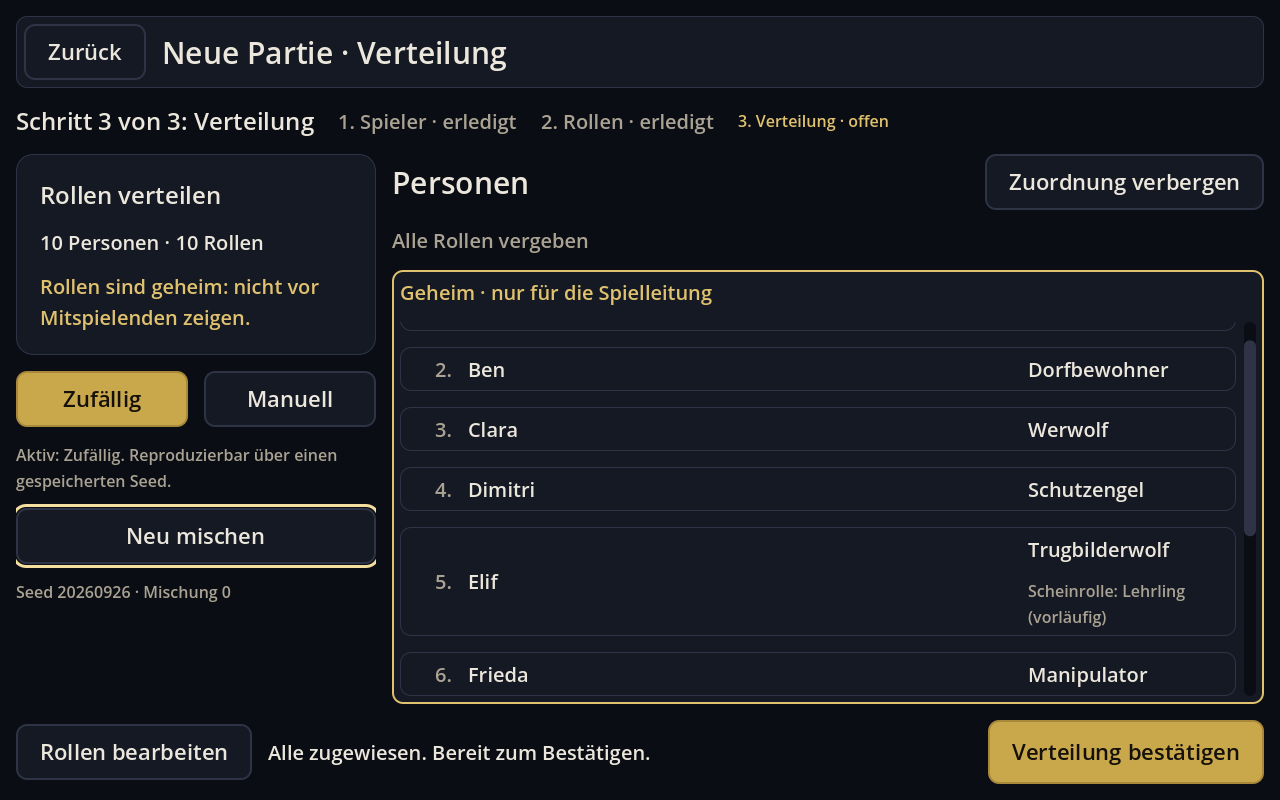
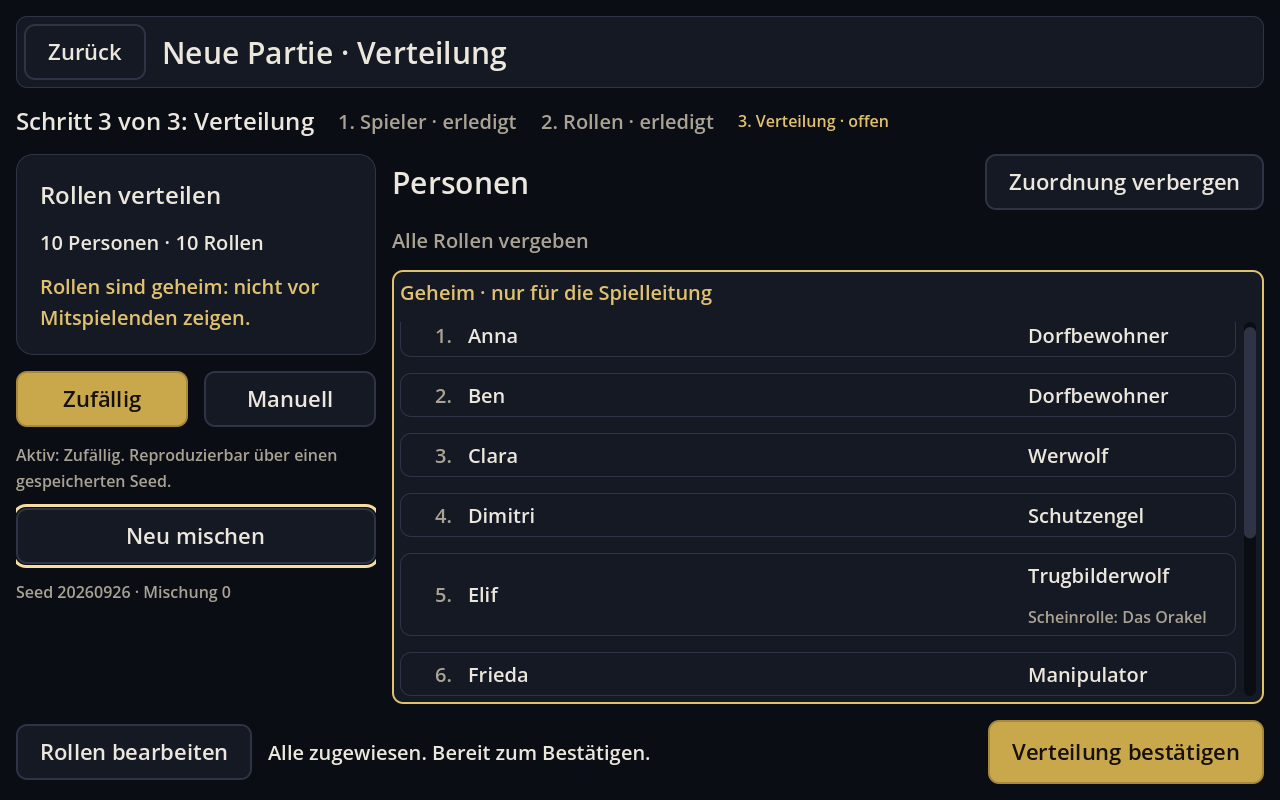
docs: Trugbilderwolf-Scheinrolle nach DR-08, Screenshots und Medien-Übergabeliste
role-setup.md beschreibt die ausdrückliche Scheinrollenwahl je Kopie
(RoleCopy, Verteilungseinheiten, Invalidierung, Oberfläche, StartGame-
Abbildung) und entfernt alle Aussagen über eine abgeleitete Scheinrolle.
Aktualisiert: docs/ui/README.md, godot/README.md, Screenshot-README.
Neu: docs/evidence/role-setup/asset-handoff.md mit Pfad, SHA-256, Größe,
Zweck und Status aller 27 gegenüber 250d3d2 neuen oder veränderten
Mediendateien; das gemeinsame Assetregister bleibt unverändert.

Claude-Session: https://claude.ai/code/session_01TPAa6aqdG9qfimgUYd4iTS

diff --git a/docs/ui/role-setup.md b/docs/ui/role-setup.md
@@ -1,6 +1,6 @@
 # Rollen-Setup · Rollen auswählen und verteilen
 
-Stand: 27.09.2026 · Godot 4.7.2 · Projekt `godot/`
+Stand: 27.09.2026 (Korrekturrunde DR-08) · Godot 4.7.2 · Projekt `godot/`
 
 „Neue Partie“ ist ein Wizard mit drei Schritten: **Spieler → Rollen → Verteilung**. Nach dem bestätigten Namensschritt (`player-setup.md`) stellt der Spielleiter einen Rollenpool für genau diese Personenzahl zusammen, verteilt ihn zufällig und reproduzierbar oder manuell und bestätigt die Verteilung. Das Ergebnis bleibt ein Entwurf im Speicher. Es entsteht weder `StartGame` noch ein `GameState`, und der Regelkern bleibt unverändert.
 
@@ -10,11 +10,11 @@ Stand: 27.09.2026 · Godot 4.7.2 · Projekt `godot/`
 |---|---|---|
 | Katalogadapter | `app/setup/setup_role_catalog.gd` (`SetupRoleCatalog`) | liest Rollen-IDs, Fraktion, `counts_as_wolf`, Nachtpriorität, `max_copies`, Pflicht-Scheinrolle und zulässige Scheinrollen nur aus `RoleCatalog`/`Faction` |
 | Darstellungsdaten | `app/setup/role_presentation.gd` (`RolePresentation`) | Übersetzungsschlüssel für Name, Kurzbeschreibung und Fraktion; Reihenfolge in der Oberfläche; keine Regelwirkung |
-| Modell | `role_pool_draft.gd`, `distribution_draft.gd`, `setup_draft.gd` | Rollenanzahlen, Pool, Verteilung, Seed, Wizard-Schritt, Bestätigungen, Invalidierungsgründe |
-| Logik | `role_setup.gd` (`RoleSetup`), `role_suggestion.gd`, `role_distribution.gd` | Operationen und zentrale Invalidierung, Vorschlag, deterministische Verteilung und Scheinrollen |
+| Modell | `role_pool_draft.gd`, `role_copy.gd`, `distribution_draft.gd`, `setup_draft.gd` | Rollenanzahlen, Trugbilderwolf-Kopien mit gewählter Scheinrolle, Pool, Verteilung, Seed, Wizard-Schritt, Bestätigungen, Invalidierungsgründe |
+| Logik | `role_setup.gd` (`RoleSetup`), `role_suggestion.gd`, `role_distribution.gd` | Operationen und zentrale Invalidierung, Vorschlag, deterministische Verteilung von Verteilungseinheiten |
 | Anwendungsschicht | `player_setup.gd` (`PlayerSetup`, `AppContext.setup`) | einzige Schnittstelle der UI; jede Operation atomar mit `SetupResult` |
 | Sicht | `setup_distribution_view.gd` | Sicht des Verteilungsschritts (reine Daten) |
-| UI | `app/screens/new_game/`: `new_game_screen`, `wizard_progress`, `player_step`, `role_step`, `role_row`, `distribution_step`, `assignment_row` | Darstellung, Eingabe, Rückfragen; keine Regellogik |
+| UI | `app/screens/new_game/`: `new_game_screen`, `wizard_progress`, `player_step`, `role_step`, `role_row`, `decoy_section`, `decoy_copy_row`, `distribution_step`, `assignment_row` | Darstellung, Eingabe, Rückfragen; keine Regellogik |
 
 `app/setup/` kennt weder `GameState`, `RulesEngine`, `Command`, `StartGame` noch `GameSession` und enthält keine globale Zufallsquelle und keine Uhr (statisch geprüft).
 
@@ -30,15 +30,22 @@ Stand: 27.09.2026 · Godot 4.7.2 · Projekt `godot/`
 - `counts: Dictionary[StringName, int]`, jede Katalogrolle, Start 0
 - `confirmed`
 - `invalidated`: `""`, `roles_changed` oder `person_count_changed`
-- `pool()`: kanonische Liste, `total()`, `summary()`, `issues(persons)`
+- `copies: Array[RoleCopy]`, `next_copy_id`: Kopien von Rollen mit Pflicht-Scheinrolle (Trugbilderwolf); ihre Zahl in `counts` entspricht immer der Zahl der Kopien
+- `pool()`: kanonische Liste der Rollen-IDs, `entries()`/`keys()`: Verteilungseinheiten, `total()`, `summary()`, `issues(persons)`
+
+**`RoleCopy`**
+- `copy_id` (stabil ab 1, nie wiederverwendet, nie als Produkttext gezeigt), `role_id`, `appears_as` (leer = noch nicht festgelegt)
+- Verteilungsschlüssel `key()`, z. B. `trugbilderwolf#2`; `role_of(key)` liefert die Rolle
+- Sichtbare Bezeichnung „Trugbilderwolf 1, 2, …“ = Position unter den Kopien der Rolle
+
+**Verteilungseinheiten** (`RolePoolDraft.entries()`): je Einheit `{key, role_id, appears_as}` in kanonischer Reihenfolge. Normale Rollen haben ihre Rollen-ID als Schlüssel, gleiche Kopien sind austauschbar und brauchen keine Unterscheidung. Jede Trugbilderwolf-Kopie ist eine eigene Einheit aus Rolle und gewählter Scheinrolle. Das entspricht direkt dem Core-Format `role_entries [{role_id, appears_as}]`.
 
 **`DistributionDraft`**
 - `mode`: `random` (Standard) oder `manual`
-- `assignment: Dictionary[int, StringName]`: Personen-ID → Rollen-ID
-- `appearances: Dictionary[int, StringName]`: Personen-ID → vorbereitete Scheinrolle, nur für Rollen mit Pflicht-Scheinrolle
+- `assignment: Dictionary[int, StringName]`: Personen-ID → Verteilungseinheit (Rollen-ID oder Kopien-Schlüssel); die Scheinrolle steht nur an der Kopie
 - `confirmed`
 - `base_seed` (`-1` = noch keiner), `shuffle_count`
-- `pool`: der Pool, für den die Zuordnung gilt
+- `pool`: die Verteilungseinheiten, für die die Zuordnung gilt
 - `invalidated`: `""`, `roles_changed` oder `person_count_changed`
 
 Alle Werte sind reine, speicherbare Daten. Eine Dateispeicherung gibt es noch nicht.
@@ -70,6 +77,7 @@ Ein Pool ist gültig, wenn alle folgenden Bedingungen gelten:
 - mindestens eine Rolle der Fraktion Dorf (`missing_village`)
 - mindestens eine Rolle mit `counts_as_wolf` (`missing_wolf`)
 - mindestens eine Einzelsiegrolle (`missing_solo`)
+- jede Trugbilderwolf-Kopie hat eine ausdrücklich gewählte Scheinrolle (`missing_appearance`)
 
 Die Einzelsiegrolle erkennt der Adapter über `RoleCatalog.faction_of(id) == Faction.SOLO`. Ein fest verdrahteter Rollenname ist nicht nötig, weil der Katalog `manipulator` bereits maschinenlesbar als `solo` führt.
 
@@ -115,9 +123,9 @@ Alle Regeln stehen zentral in `RoleSetup` und laufen als Anwendungsschicht-Opera
 |---|---|---|
 | Person hinzufügen, importieren oder entfernen | bestätigter Pool mit unpassender Summe verliert die Bestätigung (`person_count_changed`) | vollständig verworfen (`person_count_changed`); Seed und Mischzähler bleiben |
 | Name ändern | bleibt | bleibt an der Personen-ID; der neue Name erscheint |
-| Rollenanzahl ändern, zurücksetzen, Vorschlag | Bestätigung aufgehoben (`roles_changed`) | vollständig verworfen (`roles_changed`) |
-| Pool erneut bestätigen | bestätigt | bleibt nur bei identischem kanonischen Pool |
-| Neu mischen | unverändert | nur zufällige Zuordnung und Scheinrollen neu |
+| Rollenanzahl ändern, zurücksetzen, Vorschlag, Kopie entfernen, Scheinrolle ändern | Bestätigung aufgehoben (`roles_changed`) | vollständig verworfen (`roles_changed`) |
+| Pool erneut bestätigen | bestätigt | bleibt nur bei identischen Verteilungseinheiten |
+| Neu mischen | unverändert, auch alle Scheinrollen | nur die Personenzuordnung der Einheiten neu |
 | Moduswechsel | unverändert | bei bestehender Zuordnung nur nach Rückfrage (`confirmation_required`); dann verworfen |
 
 Jede Personenänderung hebt wie bisher auch die Bestätigung des Namensschritts auf. Ist der aktuelle Schritt danach nicht mehr erreichbar, fällt der Wizard auf den letzten erreichbaren zurück.
@@ -125,7 +133,7 @@ Jede Personenänderung hebt wie bisher auch die Bestätigung des Namensschritts 
 ## Seed und zufällige Verteilung
 
 **Seed-Erzeugung:**
-- Der erste Seed entsteht beim ersten bewussten „Zufällig verteilen“ oder bei der ersten vollständigen manuellen Zuordnung.
+- Der erste Seed entsteht beim ersten bewussten „Zufällig verteilen“. Die manuelle Verteilung braucht keinen Seed; ihre Zusammenfassung zeigt dann „Seed keiner“.
 - Quelle ist `PlayerSetup.seed_source`, standardmäßig `AppPlatform.initial_seed()`: Systemzeit in µs XOR Laufzeitzähler, gebracht auf 1 … `CanonicalJson.MAX_SAFE_INT`.
 - Das ist die einzige Stelle mit Uhr, und sie liegt außerhalb von `app/setup/`.
 - Der Seed wird als `base_seed` gespeichert und in den technischen Details angezeigt („Seed 20260926 · Mischung 0“).
@@ -133,7 +141,7 @@ Jede Personenänderung hebt wie bisher auch die Bestätigung des Namensschritts 
 
 **Verteilung** (`RoleDistribution.random_assignment`):
 1. Personen-IDs aufsteigend sortieren.
-2. Den kanonischen Pool mit `SeededRng(effektiver Seed).shuffled()` mischen (Fisher-Yates des Regelkerns).
+2. Die kanonischen Verteilungseinheiten mit `SeededRng(effektiver Seed).shuffled()` mischen (Fisher-Yates des Regelkerns). Eine Trugbilderwolf-Kopie wandert dabei samt ihrer Scheinrolle.
 3. Paarweise zuordnen.
 
 Die Verteilung nutzt weder globalen Zufall noch eine Uhr. Das Ergebnis hängt nur an Personen-IDs, Pool und Seed, nicht an Listenposition, Name, Sprache oder Neuaufbau.
@@ -143,35 +151,48 @@ Die Verteilung nutzt weder globalen Zufall noch eine Uhr. Das Ergebnis hängt nu
 - Effektiver Seed = `base_seed` bei Zählerstand 0, sonst `(base_seed + Zähler × 2654435761) mod MAX_SAFE_INT`.
 - Reproduzierbar; dieselbe Permutation ist möglich, und kein Test setzt Verschiedenheit voraus.
 - Hebt die Bestätigung der Verteilung auf.
+- Ändert nie eine Scheinrolle: Sie hängt an der Kopie, nicht an der Person.
 
 ## Manuelle Verteilung
 
 - Jede Person zeigt Nummer, Name und „nicht zugewiesen“ bzw. „zugewiesen“, dazu „Rolle zuweisen“ bzw. „Rolle ändern“ (48 px hoch).
 - Die Auswahl ist ein modaler Dialog (`ConfirmDialog` mit `DialogOption`-Liste, Fokussperre, Escape bricht ab). Er bietet:
   - nur Rollen mit freien Kopien („Werwolf · 1 frei“)
+  - jede freie Trugbilderwolf-Kopie einzeln („Trugbilderwolf 2 · Scheinrolle: Das Orakel“)
   - „Zuweisung entfernen“
   - „Rolle tauschen mit Nr. …“
-- `assign_role` lehnt ab: `no_copy_available` (Überbelegung), `role_not_in_pool`, `unknown_role`, `unknown_person`, `wrong_mode`.
-- Weitere Operationen: `unassign_role`, `swap_roles` (auch mit einer nicht zugewiesenen Person).
+- `assign_role(person_id, unit)` nimmt eine Rollen-ID oder den Schlüssel einer konkreten Kopie und lehnt ab: `no_copy_available` (Überbelegung), `copy_required` (Trugbilderwolf ohne konkrete Kopie), `unknown_copy`, `role_not_in_pool`, `unknown_role`, `unknown_person`, `wrong_mode`.
+- Weitere Operationen: `unassign_role` (gibt genau die gehaltene Kopie frei), `swap_roles` (auch mit einer nicht zugewiesenen Person; eine Scheinrolle folgt ihrer Kopie).
 - Der Restbestand ist öffentlich als Zahl sichtbar („Noch 7 Rollen offen“). Mit Rollennamen erscheint er nur im geöffneten Spielleiterbereich.
 - `confirm_distribution` gelingt nur bei vollständiger, exakter Zuordnung (`distribution_incomplete`).
 
-## Trugbilderwolf-Scheinrolle
+## Trugbilderwolf-Scheinrolle (DR-08)
 
-Für jede Person mit Pflicht-Scheinrolle (`RoleCatalog.requires_appearance`) bereitet der Entwurf eine Scheinrolle vor:
-- **Herleitung:** `SeededRng(mix(effektiver Seed, 1000003 + Personen-ID))` wählt aus `SetupRoleCatalog.appearance_options()`, also den kanonisch sortierten Rollen, die bekannt sind und nicht als Wolf zählen. Das Ergebnis ist nie leer.
-- **Stabilität:** Die Scheinrolle hängt an der Personen-ID und bleibt bei Umbenennen gleich. Neu mischen berechnet sie neu. Manuell entsteht sie, sobald die Zuordnung vollständig ist.
-- **Sichtbarkeit:** nur im geöffneten Spielleiterbereich, als „Scheinrolle: Lehrling (vorläufig)“. Eine manuelle Wahl gibt es noch nicht.
+Der Spielleiter legt die Scheinrolle jeder Trugbilderwolf-Kopie ausdrücklich fest. Es gibt keine Vorbelegung und keine aus Zufall oder Seed abgeleitete Scheinrolle.
 
-**Offener Widerspruch zu DR-08:** Laut Entscheidungslog legt der Spielleiter die Scheinrolle fest, „nie zufällig“. Dieser Auftrag verlangt dagegen eine aus dem Seed abgeleitete Vorbelegung. Deshalb ist sie ausdrücklich als *vorläufig* markiert. Der Regelkern bleibt unberührt, weil `StartGame` die Scheinrolle weiterhin explizit über `appearances` bekommt. Vor der StartGame-Integration muss entschieden werden, ob der Spielleiter die Vorbelegung bestätigen oder ändern muss.
+- **Anlegen:** Plus beim Trugbilderwolf (auch über den Vorschlag) erzeugt eine neue, noch nicht konfigurierte Kopie. Solange eine Kopie keine Scheinrolle hat, ist der Pool ungültig (`missing_appearance`) und „Rollen bestätigen“ gesperrt.
+- **Wählen:** `set_decoy_appearance(copy_id, rolle)` akzeptiert jede bekannte Rolle, die nicht als Wolf zählt, auch wenn sie nicht im Pool vorkommt. Abgelehnt werden atomar `empty_appearance`, `unknown_role`, `invalid_appearance` (Wolf) und `unknown_copy`. Mehrere Kopien dürfen dieselbe Scheinrolle haben.
+- **Entfernen:** Minus entfernt die letzte *unkonfigurierte* Kopie ohne Rückfrage. Ist keine unkonfigurierte übrig, fragt die Oberfläche „Kopie entfernen?“ und nennt „Trugbilderwolf N“ (`confirmation_required` mit `copy_id` und `number`). Jede Kopie hat zusätzlich „Entfernen“ (`remove_decoy_copy`). Übrige Kopien behalten Kopien-ID und Scheinrolle; die sichtbaren Nummern zählen neu.
+- **Vorschlag und Zurücksetzen:** Der Vorschlag behält vorhandene Kopien samt Scheinrolle, soweit er Trugbilderwölfe vorsieht, und legt fehlende unkonfiguriert an. Zurücksetzen entfernt alle Kopien.
+- **Invalidierung:** Eine geänderte Scheinrolle hebt Rollen- und Verteilungsbestätigung auf und verwirft die Verteilung. Dieselbe Scheinrolle erneut zu wählen ändert nichts. Umbenennen, Sprachwechsel und Navigation erhalten alles.
+- **Verteilung:** Zufällig, Neu mischen, manuelles Zuweisen und Tauschen bewegen die ganze Kopie; die Person trägt immer die Scheinrolle ihrer Kopie.
+
+**Oberfläche:**
+- Direkt unter der Trugbilderwolf-Zeile steht der Bereich `DecoySection`. Öffentlich zeigt er nur „Scheinrollen festgelegt: 1 von 2“ (als Hinweis hervorgehoben, solange etwas fehlt) und „Scheinrollen festlegen“.
+- Erst nach bewusstem Öffnen erscheint der als „Geheim · nur für die Spielleitung“ markierte Bereich. Er enthält je Kopie „Trugbilderwolf 1“, „Scheinrolle: Waldhexe“ oder „Scheinrolle fehlt“, „Wählen“ bzw. „Ändern“ und „Entfernen“.
+- Die Wahl läuft über den modalen Dialog „Scheinrolle wählen“ mit allen Nicht-Wolf-Rollen (lokalisiert, die aktuelle als „· aktuell“). Es gelten Fokussperre und Escape.
+- Schließen oder Verlassen des Schritts blendet den Bereich aus; liegt der Fokus darin, wandert er auf „Scheinrollen festlegen“.
+- In der Verteilung zeigt der geöffnete Spielleiterbereich „Scheinrolle: …“.
+
+**StartGame-Abbildung (noch nicht gebaut):** `entries()` entspricht `role_entries`. Um die im Setup bestätigte Zuordnung unverändert zu übernehmen, eignet sich der manuelle Aufbau: `roles {"<Personen-ID>": role_id}` und `appearances {"<Personen-ID>": appears_as}` aus Zuordnung und Kopie. Ein zweiter Zufallsalgorithmus entsteht nicht.
 
 ## Geheimhaltung
 
 - Die Standardansicht der Verteilung zeigt je Person nur „zugewiesen“ oder „nicht zugewiesen“.
-- Rollen und Scheinrollen erscheinen nur im bewusst geöffneten Bereich „Geheim · nur für die Spielleitung“ (`AssignmentPanel` mit `SecretHeading`, eigener Rahmen) und in der modalen Rollenauswahl.
-- Beim Verlassen des Schritts schließt sich der Bereich wieder.
+- Rollen und Scheinrollen erscheinen nur im bewusst geöffneten Bereich „Geheim · nur für die Spielleitung“ (Verteilung: `AssignmentPanel` mit `SecretHeading`; Rollenschritt: `DecoySecretPanel`) und in den modalen Auswahldialogen.
+- Beim Verlassen des Schritts schließen sich beide Bereiche wieder.
 - Eine dauerhafte Warnung steht im Schritt: „Rollen sind geheim: nicht vor Mitspielenden zeigen.“
-- Toasts („Rollen verteilt“, „Neu gemischt“, „Verteilung bestätigt“), Status, Dialogtitel, Tooltips und Screen-IDs nennen keine Rolle. `test_distribution_step` prüft das nach jeder Aktion gegen alle DE/EN-Rollennamen.
+- Toasts („Rollen verteilt“, „Neu gemischt“, „Verteilung bestätigt“), Status, Fortschrittsanzeige, Dialogtitel, Tooltips und Screen-IDs nennen weder Rolle noch Scheinrolle. `test_distribution_step` und `test_decoy_step` prüfen das nach jeder Aktion gegen alle DE/EN-Rollennamen.
 
 ## Wizard-Navigation
 
@@ -200,19 +221,21 @@ Beide Bestätigungen erzeugen kein `StartGame`, keinen `GameState` und keinen Be
 | Methode | Fehlercodes |
 |---|---|
 | `go_to_step(step)` | `unknown_step`, `players_not_confirmed`, `roles_not_confirmed` |
-| `set_role_count(role, count)`, `change_role_count(role, delta)` | `unknown_role`, `negative_count`, `above_maximum` |
+| `set_role_count(role, count)`, `change_role_count(role, delta)` | `unknown_role`, `negative_count`, `above_maximum`, `confirmation_required` (konfigurierte Kopie; Details `copy_id`, `number`) |
+| `set_decoy_appearance(copy_id, role)` | `unknown_copy`, `empty_appearance`, `unknown_role`, `invalid_appearance` |
+| `remove_decoy_copy(copy_id)` | `unknown_copy` |
 | `reset_roles()` | – |
 | `apply_suggestion(force = false)` | `confirmation_required`, `too_few_persons`, `too_many_persons` |
 | `confirm_roles()` | `players_not_confirmed`, `roles_invalid` (Details: `issues`) |
 | `set_distribution_mode(mode, force = false)` | `unknown_mode`, `confirmation_required` |
 | `distribute_randomly()` | `players_not_confirmed`, `roles_not_confirmed`, `wrong_mode`, `no_seed_source`, `invalid_seed` |
 | `reshuffle()` | wie oben, `nothing_to_reshuffle` |
-| `assign_role(person_id, role)`, `unassign_role(person_id)`, `swap_roles(a, b)` | `wrong_mode`, `unknown_person`, `unknown_role`, `role_not_in_pool`, `no_copy_available` |
+| `assign_role(person_id, unit)`, `unassign_role(person_id)`, `swap_roles(a, b)` | `wrong_mode`, `unknown_person`, `unknown_role`, `copy_required`, `unknown_copy`, `role_not_in_pool`, `no_copy_available` |
 | `confirm_distribution()` | `distribution_incomplete` und die Vorbedingungen |
 
 - **Eigenschaft:** `seed_source: Callable`.
 - **Signal:** `changed(view)`, auch nach einem Schrittwechsel.
-- **Sicht `view()`:** ergänzt um `step`, `steps` (`id`, `number`, `state`, `current`, `reachable`), `roles` (`counts`, `total`, `persons`, `free`, `valid`, `issues`, `confirmed`, `can_confirm`, `invalidated`, `pool`, `factions`, `wolf_count`, `limits`, `can_increase`, `can_decrease`, `is_empty`, `is_suggestion`) und `distribution` (`mode`, `assignment` [`person_id`, `number`, `name`, `role`, `appearance`], `assigned_count`, `person_count`, `role_count`, `remaining`, `remaining_total`, `complete`, `has_assignment`, `confirmed`, `can_confirm`, `invalidated`, `has_seed`, `seed`, `effective_seed`, `shuffle_count`, `factions`, `ready_for_seating`).
+- **Sicht `view()`:** ergänzt um `step`, `steps` (`id`, `number`, `state`, `current`, `reachable`), `roles` (`counts`, `total`, `persons`, `free`, `valid`, `issues`, `confirmed`, `can_confirm`, `invalidated`, `pool`, `factions`, `wolf_count`, `limits`, `can_increase`, `can_decrease`, `is_empty`, `is_suggestion`, `decoys` [`copy_id`, `number`, `key`, `role_id`, `appears_as`, `configured`], `entries`, `appearance_options`) und `distribution` (`mode`, `assignment` [`person_id`, `number`, `name`, `role`, `copy_key`, `copy_number`, `appearance`], `assigned_count`, `person_count`, `role_count`, `remaining`, `remaining_keys`, `remaining_copies`, `remaining_total`, `complete`, `has_assignment`, `confirmed`, `can_confirm`, `invalidated`, `has_seed`, `seed`, `effective_seed`, `shuffle_count`, `factions`, `ready_for_seating`).
 
 **Neue UI-Bausteine:**
 - `DialogOption` und `DialogRequest.options`/`title_values` (Auswahlliste im modalen Dialog; ohne `confirm_key` keine Bestätigungsaktion)
@@ -223,6 +246,7 @@ Beide Bestätigungen erzeugen kein `StartGame`, keinen `GameState` und keinen Be
 ```bash
 godot/tests/run_all.sh --filter=test_role           # Rollenmodell, Vorschlag, Rollenwahl-UI
 godot/tests/run_all.sh --filter=test_distribution   # Verteilungsmodell, Verteilungs-UI, Geheimhaltung
+godot/tests/run_all.sh --filter=test_decoy          # Trugbilderwolf-Scheinrolle (DR-08)
 xvfb-run -a -s "-screen 0 1920x1080x24" <godot-4.7.2> --path godot --rendering-driver opengl3 \
   --audio-driver Dummy -s res://tools/capture_ui_screenshots.gd -- --only=role-setup
 ```
@@ -231,7 +255,9 @@ xvfb-run -a -s "-screen 0 1920x1080x24" <godot-4.7.2> --path godot --rendering-d
 |---|---|
 | `tests/ui/test_role_model.gd` | Katalogadapter gegen `RoleCatalog`, Darstellungsschlüssel DE/EN, Plus/Minus, Grenzen, Validierung, kanonischer Pool, Schrittsperren, Vorschlag 6 bis 24, Überschreiben nur mit Bestätigung, Personenänderungen, kein Zufall und keine Uhr in `app/setup/` |
 | `tests/ui/test_role_step.gd` | Schrittanzeige und Sperren, Doppelklick, Zurück und Navigation erhalten Daten, Verlassen-Rückfrage, Rollenzeilen mit Katalogdaten und Gruppen, Zähler und Fehler, Überschreib-Dialog, kein GameState/StartGame, Layout 1024×768/1280×800 EN/1920×1080, Scrollen, Schlüssel |
-| `tests/ui/test_distribution_model.gd` | Vollständigkeit, Reproduzierbarkeit, Personen-ID statt Reihenfolge, Neuaufbau/Sprache/Name, Neu mischen, Bestätigen, Invalidierung, manuelle Zuweisung, Moduswechsel, Trugbilderwolf-Scheinrollen (auch mehrere, manuell) |
+| `tests/ui/test_distribution_model.gd` | Vollständigkeit, Reproduzierbarkeit, Personen-ID statt Reihenfolge, Neuaufbau/Sprache/Name, Neu mischen, Bestätigen, Invalidierung, manuelle Zuweisung, Moduswechsel, ausdrücklich gewählte Trugbilderwolf-Scheinrollen (auch mehrere, manuell) |
+| `tests/ui/test_decoy_model.gd` | DR-08: keine Vorbelegung, Bestätigung erst nach Wahl, Validierung, Kopien anlegen und entfernen, Vorschlag und Zurücksetzen, Kopien als Einheit beim Verteilen, Neu mischen, manuell und Tauschen, Invalidierung, Name und Sprache, kein abgeleiteter Code |
+| `tests/ui/test_decoy_step.gd` | Scheinrollen-Bereich: fehlende Wahl sichtbar, Öffnen und Schließen mit Fokusabgabe, modaler Dialog, zwei Kopien, Entfernen mit Rückfrage, Anzeige in der Verteilung, Kopienwahl im Dialog, Geheimhaltung, kein GameState/StartGame, Layout 1024×768/1280×800 DE/EN |
 | `tests/ui/test_distribution_step.gd` | verborgene Rollen, geheimer Bereich, Seed, Neu mischen, Zusammenfassung ohne Partie, manuelle Auswahl im modalen Dialog mit Fokussperre, Moduswechsel-Rückfrage, Layout, Scrollen |
 
 Prüf-Screenshots: `docs/evidence/role-setup/`.
@@ -240,6 +266,5 @@ Prüf-Screenshots: `docs/evidence/role-setup/`.
 
 - Sitzordnung, Sitzkreis, Drag-and-drop
 - Rollenübergabe an Spieler, öffentliche Rollenanzeige
-- `StartGame`-Integration: Geplant ist ein manueller Aufbau mit `roles` und `appearances` aus dem Entwurf, damit die Setup-Zuordnung maßgeblich bleibt. Der zufällige Kernmodus mischt selbst und würde eine andere Zuordnung erzeugen.
-- manuelle Wahl der Trugbilderwolf-Scheinrolle (siehe DR-08 oben)
+- `StartGame`-Integration (Abbildung siehe „Trugbilderwolf-Scheinrolle“)
 - Speichern des Entwurfs, gespeicherte Gruppen, Undo/Redo

diff --git a/docs/evidence/role-setup/asset-handoff.md b/docs/evidence/role-setup/asset-handoff.md
@@ -1,0 +1,42 @@
+# Medien-Übergabeliste · Rollen-Setup
+
+Übergabe an Grimmhain-3 für die spätere Aufnahme in das gemeinsame Assetregister. Dieser Branch ändert das Register, sein Prüfwerkzeug und dessen CI nicht; die Integration ist offen.
+
+- Branch: `claude/sleepy-babbage-u2o0i2`
+- Vergleichsbasis: `250d3d2` (Branchbasis; `origin/main` enthält diese Dateien noch nicht)
+- Umfang: alle gegenüber der Basis neuen oder veränderten Mediendateien (nur PNG; keine Audio-, Schrift- oder Grafikassets)
+- Herkunft: erzeugt mit `godot/tools/capture_ui_screenshots.gd` unter Xvfb (Godot 4.7.2, Mesa llvmpipe), fester Setup-Seed 20260926
+- Lizenz: eigene Bildschirmaufnahmen der App, keine Fremdinhalte, keine eingebetteten Schriftdateien (Engine-Standardschrift)
+- Zweck aller Dateien: UI-Prüfartefakt (keine Produktionsassets, nicht Teil des App-Exports)
+
+| Pfad | SHA-256 | Größe (Byte) | Zweck | Status |
+|---|---|---|---|---|
[27 lines of base64/hex data omitted]
+
+Prüfsummen neu berechnen: `sha256sum docs/evidence/player-setup/*.png docs/evidence/role-setup/*.png`

diff --git a/docs/ui/README.md b/docs/ui/README.md
@@ -39,7 +39,7 @@ app/main.tscn                AppShell (Control, Vollbild)
 | `app/screens/base_screen.gd` | Basis jeder Ansicht: Signale statt Router-Zugriff, Kopfzeile verdrahten, Standardfokus |
 | `app/screens/start/` | Titel, Untertitel, „Eintreten“, Version |
 | `app/screens/main_menu/` | Neue Partie, Fortsetzen, Cockpit, Einstellungen, Beenden (nur Desktop, abgesetzt) |
-| `app/screens/new_game/` | Setup-Wizard: Host `new_game_screen` mit Schrittanzeige (`wizard_progress`) und genau einem Schritt: `player_step` (Namensschritt mit `person_row`, `player-setup.md`), `role_step` mit `role_row` (Rollenwahl) und `distribution_step` mit `assignment_row` (Verteilung, geheimer Spielleiterbereich); Details in `role-setup.md` |
+| `app/screens/new_game/` | Setup-Wizard: Host `new_game_screen` mit Schrittanzeige (`wizard_progress`) und genau einem Schritt: `player_step` (Namensschritt mit `person_row`, `player-setup.md`), `role_step` mit `role_row` (Rollenwahl) und `decoy_section` mit `decoy_copy_row` (geheime Trugbilderwolf-Scheinrollenwahl) und `distribution_step` mit `assignment_row` (Verteilung, geheimer Spielleiterbereich); Details in `role-setup.md` |
 | `app/screens/continue/` | leerer Zustand „Kein Spielstand vorhanden“, Bereich `SaveSlotList` |
 | `app/screens/settings/` | Sprache DE/EN, Bewegung reduzieren, Platzhalter Audio und Anzeige |
 | `app/screens/cockpit/` | Kopfzeile, Phasenbereich, Ansagekarte, Sitzkreisbereich, Aktionsbereich, Kennzeichen „Keine Partie aktiv“ |
@@ -54,7 +54,7 @@ app/main.tscn                AppShell (Control, Vollbild)
 | `app/settings/app_settings.gd` | Sprache, Bewegung reduzieren, Linkshänder-Grundlage; nur im Speicher |
 | `app/platform/app_platform.gd` | Desktop/Mobil, Beenden erlaubt, Version aus `project.godot` |
 | `app/session/game_session.gd` | Anwendungsschicht zum Regelkern |
-| `app/setup/*.gd` | Anwendungsschicht und Modell des Setups ohne Regelkern: `PlayerSetup`, `SetupDraft`, `SetupPerson`, `SetupResult`, `PersonNameRules`; Rollen: `SetupRoleCatalog` (lesender Katalogadapter), `RolePresentation`, `RolePoolDraft`, `RoleSuggestion`, `DistributionDraft`, `RoleDistribution`, `RoleSetup`, `SetupDistributionView` |
+| `app/setup/*.gd` | Anwendungsschicht und Modell des Setups ohne Regelkern: `PlayerSetup`, `SetupDraft`, `SetupPerson`, `SetupResult`, `PersonNameRules`; Rollen: `SetupRoleCatalog` (lesender Katalogadapter), `RolePresentation`, `RolePoolDraft`, `RoleCopy`, `RoleSuggestion`, `DistributionDraft`, `RoleDistribution`, `RoleSetup`, `SetupDistributionView` |
 | `app/app_context.gd` | Einstellungen, Sitzung und Setup-Entwurf für die Ansichten |
 | `content/i18n/ui.de.po`, `ui.en.po` | UI-Texte |
 | `tools/capture_ui_screenshots.gd` | Prüf-Screenshots (nicht Teil der App) |
@@ -130,7 +130,7 @@ Neue Theme-Variationen des Setups: `CompactButton` (Listenzeilen, 48 hoch, Schri
 ## Lokalisierung
 
 - Dateien: `godot/content/i18n/ui.de.po` und `ui.en.po`, registriert unter `internationalization/locale/translations`, Rückfall `en`. Godot lädt `.po` direkt, ohne Importschritt.
-- Schlüssel sind `msgid`s nach dem Muster `app.*` und `ui.<bereich>.<element>` (244 Schlüssel, davon 166 `ui.setup.*` sowie 22 `ui.role.*` und 3 `ui.faction.*`, identisch in beiden Dateien).
+- Schlüssel sind `msgid`s nach dem Muster `app.*` und `ui.<bereich>.<element>` (263 Schlüssel, davon 185 `ui.setup.*` sowie 22 `ui.role.*` und 3 `ui.faction.*`, identisch in beiden Dateien).
 - Szenen setzen nur `text_key`. Kein sichtbarer Text steht in Szenen oder Skripten (`test_no_literal_texts_in_scenes_or_scripts`).
 - `GrimmButton`, `GrimmLabel` und `GrimmToggle` übersetzen selbst (`tr(text_key)`) und aktualisieren sich bei `NOTIFICATION_TRANSLATION_CHANGED`. Die automatische Übersetzung der Engine ist für sie abgeschaltet, damit der sichtbare Text in `text` steht und prüfbar ist.
 - Sprachwechsel: `AppSettings.set_language("de"|"en")` setzt die Locale; die Shell verteilt die Änderung sofort an alle Knoten. Andere Sprachen werden abgelehnt. Die Wahl wird noch nicht gespeichert.

diff --git a/godot/README.md b/godot/README.md
@@ -94,6 +94,8 @@ App lokal starten: `godot --path godot` (Hauptszene `res://app/main.tscn`) oder 
 | `tests/ui/test_role_model.gd` | Katalogadapter gegen `RoleCatalog`, Darstellungsschlüssel DE/EN, Rollenpool (Plus/Minus, Grenzen, Validierung, kanonisch), Schrittsperren, Vorschlag 6–24, Überschreiben nur mit Bestätigung, Personenänderungen, kein Zufall/keine Uhr im Setup | Rollen-Setup 1–36, 47, 73, 74 |
 | `tests/ui/test_role_step.gd` | Wizard (Schrittanzeige, Sperren, Doppelklick, Zurück, Verlassen), Rollenwahl-Oberfläche, Überschreib-Dialog, kein GameState/StartGame, Layout, Scrollen, Schlüssel | Rollen-Setup 22, 23, 33, 73–83, 86–89 |
 | `tests/ui/test_distribution_model.gd` | zufällige und manuelle Verteilung, Reproduzierbarkeit, Neu mischen, Moduswechsel, Invalidierung, Trugbilderwolf-Scheinrollen | Rollen-Setup 37–71 |
+| `tests/ui/test_decoy_model.gd` | Trugbilderwolf-Scheinrolle nach DR-08: keine Vorbelegung, Validierung, Kopien, Verteilung als Einheit, Invalidierung | Korrekturrunde DR-08 |
+| `tests/ui/test_decoy_step.gd` | geheimer Scheinrollen-Bereich, modale Wahl, Kopien in der Verteilung, Geheimhaltung, Layout | Korrekturrunde DR-08 |
 | `tests/ui/test_distribution_step.gd` | Verteilungs-Oberfläche, Geheimhaltung, modale Rollenauswahl, Zusammenfassung ohne Partie, Layout | Rollen-Setup 44, 53–57, 63, 64, 72, 74, 80, 81, 84–91 |
 | `tests/unit/test_core_purity.gd` | `core/` ohne Nodes, Szenen, Dateisystem, Zeit, Audio, Netzwerk, globalen Zufall | Masterplan §4 Regel 1 |
 
@@ -118,7 +120,7 @@ App lokal starten: `godot --path godot` (Hauptszene `res://app/main.tscn`) oder 
 |---|---|
 | `project.godot` | Projekteinstellungen, Typisierungswarnungen als Fehler, Hauptszene, Querformat, Streckung `canvas_items`/`expand`, Übersetzungen, `quit_on_go_back` aus, Version (zentrale Quelle) |
 | **app/**, **content/i18n/** | UI-Grundlage und UI-Texte; Szenen, Verantwortungen, Navigation, Tokens und Lokalisierung in `../docs/ui/README.md` |
-| **app/setup/** | Setup ohne Regelkern: `PersonNameRules` (Grenzen, Namensregeln), `SetupPerson`, `SetupDraft`, `SetupResult`, `PlayerSetup` (Anwendungsschicht); Rollen über den lesenden Adapter `SetupRoleCatalog`, dazu `RolePresentation`, `RolePoolDraft`, `RoleSuggestion`, `DistributionDraft`, `RoleDistribution`, `RoleSetup`, `SetupDistributionView`; siehe `../docs/ui/player-setup.md` und `../docs/ui/role-setup.md` |
+| **app/setup/** | Setup ohne Regelkern: `PersonNameRules` (Grenzen, Namensregeln), `SetupPerson`, `SetupDraft`, `SetupResult`, `PlayerSetup` (Anwendungsschicht); Rollen über den lesenden Adapter `SetupRoleCatalog`, dazu `RolePresentation`, `RolePoolDraft`, `RoleCopy` (Trugbilderwolf-Kopie mit ausdrücklich gewählter Scheinrolle, DR-08), `RoleSuggestion`, `DistributionDraft`, `RoleDistribution`, `RoleSetup`, `SetupDistributionView`; siehe `../docs/ui/player-setup.md` und `../docs/ui/role-setup.md` |
 | `tools/capture_ui_screenshots.gd` | Prüf-Screenshots der UI (braucht Renderer, z. B. Xvfb) |
 | `tools/godot-version.txt`, `tools/install_godot.sh` | gepinnte Engine-Version, Download mit Prüfsumme |
 | **core/util/** | |

diff --git a/docs/evidence/role-setup/README.md b/docs/evidence/role-setup/README.md
@@ -16,7 +16,13 @@ Prüfartefakte, keine Produktionsassets. Erzeugt am 27.09.2026 in der Cloud-Umge
 | `10-manual-picker-1280x800-de.png` | modale Rollenauswahl mit freien Rollen, Entfernen und Tauschen | 1280×800 | DE |
 | `11-manual-complete-1280x800-en.png` | vollständige manuelle Verteilung, geöffnet | 1280×800 | EN |
 | `12-confirmed-ready-1280x800-de.png` | bestätigte Verteilung, Karte „Bereit für Sitzordnung“ | 1280×800 | DE |
-| `13-decoy-wolf-secret-1280x800-de.png` | Trugbilderwolf mit vorläufiger Scheinrolle im geheimen Bereich | 1280×800 | DE |
+| `13-decoy-wolf-secret-1280x800-de.png` | Trugbilderwolf mit ausdrücklich gewählter Scheinrolle im geheimen Bereich der Verteilung | 1280×800 | DE |
+| `14-decoy-missing-1024x768-de.png` | zwei Trugbilderwolf-Kopien, eine ohne Scheinrolle: „Scheinrolle fehlt“, Bestätigen gesperrt | 1024×768 | DE |
+| `15-decoy-chosen-1280x800-de.png` | ausdrücklich gewählte Scheinrolle, geheimer Bereich geöffnet | 1280×800 | DE |
+| `16-decoy-two-copies-1024x768-de.png` | zwei Kopien mit unterschiedlichen Scheinrollen | 1024×768 | DE |
+| `17-decoy-manual-picker-1280x800-de.png` | manuelle Rollenauswahl mit beiden Kopien einzeln | 1280×800 | DE |
+| `18-decoy-random-closed-1024x768-de.png` | zufällige Verteilung mit zwei Kopien, geheimer Bereich geschlossen | 1024×768 | DE |
+| `19-decoy-random-open-1280x800-de.png` | dieselbe Verteilung, geheimer Bereich geöffnet | 1280×800 | DE |
 
 Beim Ansehen der ersten Aufnahmen gefundene und behobene Mängel (Commit „fix(ui): Sichtmängel aus den Rollen-Setup-Screenshots“):
 - Titel der Rollenauswahl zeigte den Platzhalter `{number}` roh → `DialogRequest.title_values`
@@ -25,6 +31,8 @@ Beim Ansehen der ersten Aufnahmen gefundene und behobene Mängel (Commit „fix(
 - „Verteilung bestätigen“ brach in zwei Zeilen um → ohne Umbruch
 - Meldung „Spielerliste bestätigt“ bzw. „Rollen bestätigt“ aus dem vorigen Schritt verdeckte den Listenanfang in den Aufnahmen → im Werkzeug ausgeblendet; in der App verschwindet sie nach 2,5 s
 - Aufnahme 13 zeigte keinen Trugbilderwolf → Liste wird zur ersten Trugbilderwolf-Zeile gescrollt
+
+Korrekturrunde DR-08 (27.09.2026): Die zufällige Scheinrolle ist entfernt. `03`, `11` und `13` sind neu erzeugt (`03` mit gewählter Scheinrolle, `11` ohne Seed im manuellen Modus, `13` ohne „vorläufig“), `14` bis `19` sind neu. Beim Ansehen gefunden und behoben: Bei 1024×768 brach „Scheinrolle: Waldhexe“ in der Kopienzeile um, weil die Buttons „Scheinrolle wählen/ändern“ zu breit waren; sie heißen jetzt „Wählen“ bzw. „Ändern“. Belassen: Der Stand „Scheinrollen festgelegt: 1 von 2“ bricht bei 1024×768 neben „Scheinrollen verbergen“ in zwei Zeilen um.
 
 Bewusst so belassen: Die Statusmeldung einer Aktion (`07`, `12`) verdeckt 2,5 s den unteren Listenbereich. Die Fraktion steht in jeder Rollenzeile, obwohl sie auch als Gruppenüberschrift erscheint, damit sie nie nur aus der Position folgt. Die Bilder ersetzen keine Prüfung auf einem echten Tablet.
 
